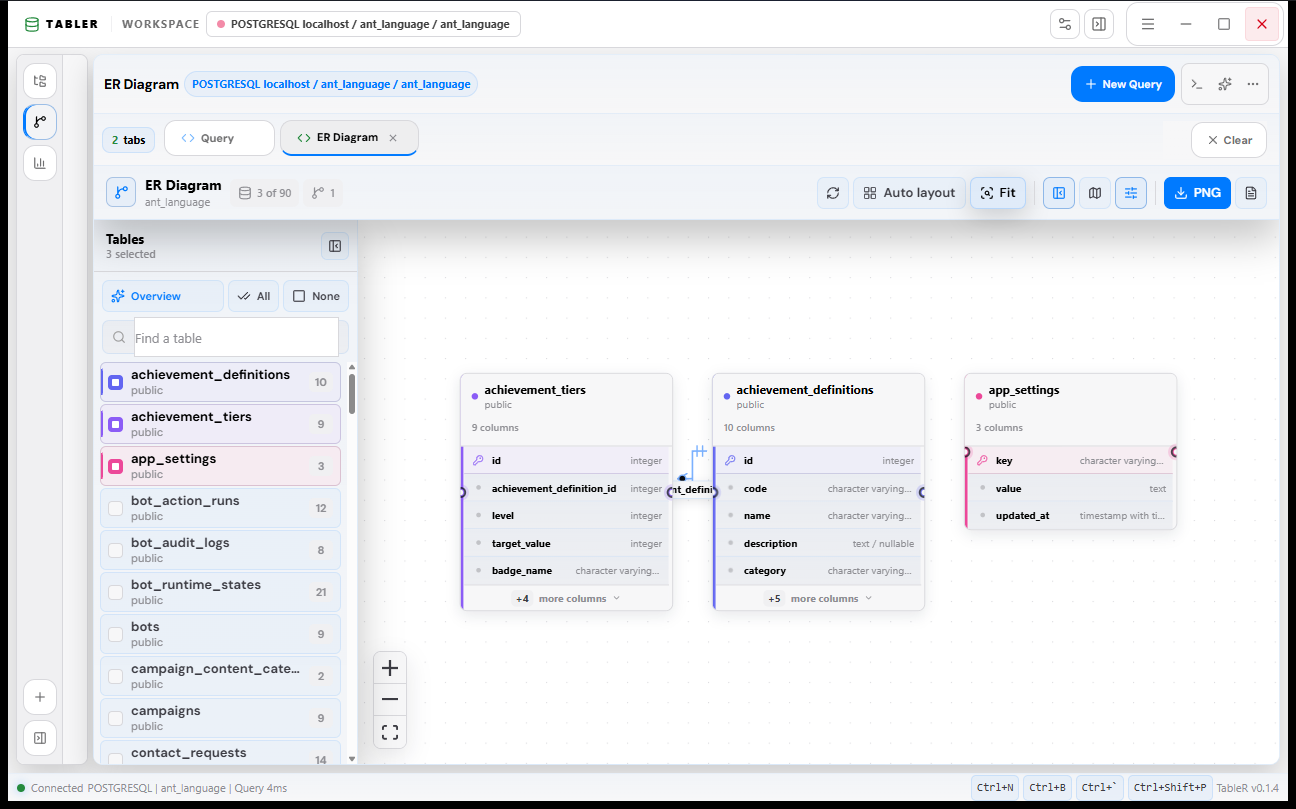
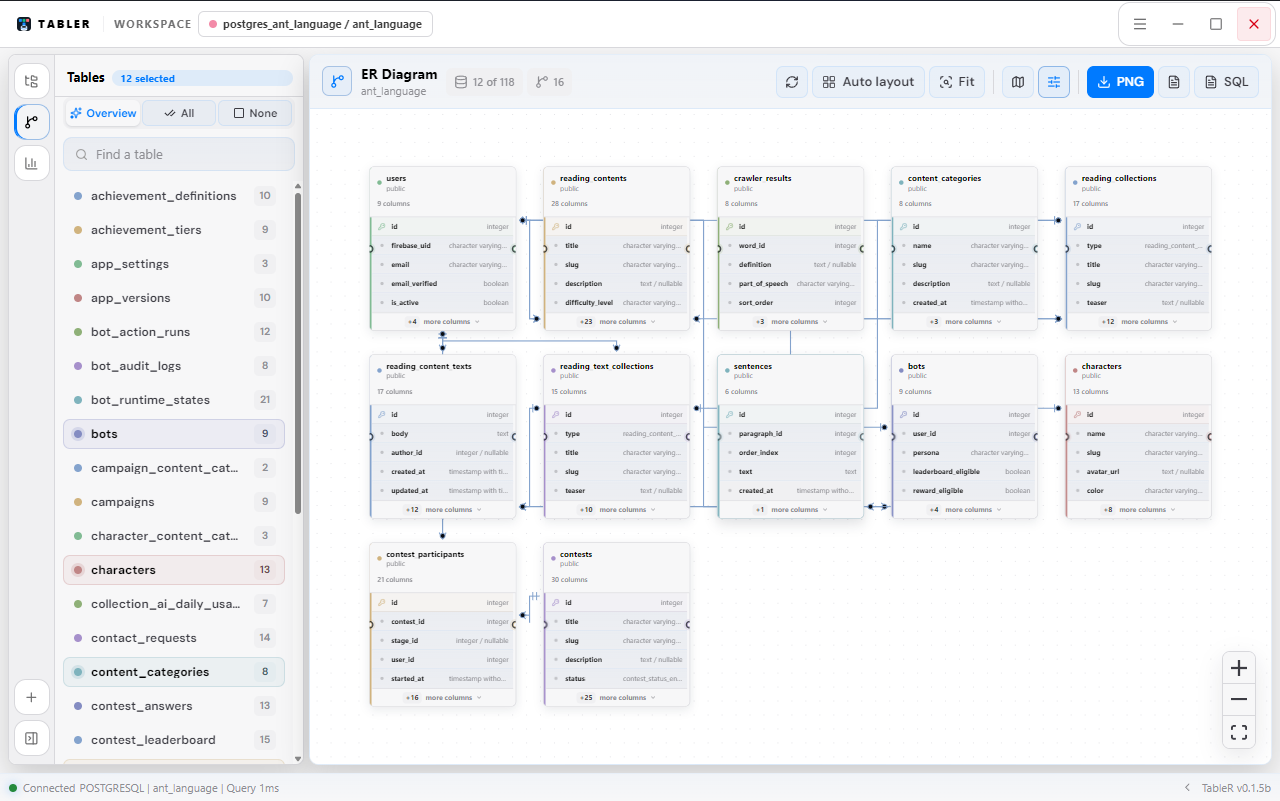
style(plugins): compact redesign of the plugin manager modal
- Widen the modal to 860px, lay the two metric cards side by side instead of a 3-col grid with an empty slot

- Adapter and roadmap sections use a denser auto-fill card grid (min 178px) with hover state and smaller paddings

- Status pills can no longer wrap (Amazon Redshift badge overflow) and the ready pill gets a matching green tint instead of blue background with green text

- Registry list keeps its comfortable single-column layout with install buttons

Changed region(s): [[0.0, 0.0, 1.0, 1.0], [0.8438, 0.437, 0.875, 0.4994], [0.8438, 0.0, 0.875, 0.0312]]

diff --git a/src/styles/app-components.css b/src/styles/app-components.css
@@ -34523,3 +34523,86 @@ body.is-ai-panel-resizing .ai-workspace-resize-handle-line {
 .app-update-primary:hover {
   filter: brightness(1.08);
 }
+
+/* ── Plugin manager: compact redesign ──────────────────────────────────── */
+
+.app-plugin-manager-modal {
+  width: min(860px, calc(100vw - 32px));
+}
+
+/* Two metrics side by side instead of a 3-col grid with an empty slot. */
+.app-plugin-manager-modal .app-help-modal-grid {
+  grid-template-columns: repeat(2, minmax(0, 1fr));
+  gap: 8px;
+}
+
+.app-plugin-manager-modal .app-help-modal-metric {
+  flex-direction: row;
+  align-items: baseline;
+  justify-content: space-between;
+  gap: 10px;
+  padding: 10px 14px;
+  border-radius: 12px;
+}
+
+/* Registry rows keep a comfortable single-column list; adapter/roadmap
+   sections use the denser auto-fill grid below. */
+.app-plugin-manager-grid {
+  display: grid;
+  grid-template-columns: repeat(auto-fill, minmax(178px, 1fr));
+  gap: 8px;
+}
+
+.app-plugin-manager-grid .app-plugin-manager-row {
+  min-width: 0;
+  gap: 8px;
+  padding: 9px 11px;
+  border-radius: 10px;
+  background: var(--mm-surface-1);
+  transition:
+    border-color 0.15s ease,
+    background 0.15s ease;
+}
+
+.app-plugin-manager-grid .app-plugin-manager-row:hover {
+  border-color: color-mix(in srgb, var(--accent) 32%, var(--mm-border));
+  background: var(--mm-surface-2);
+}
+
+.app-plugin-manager-row-title {
+  min-width: 0;
+  overflow: hidden;
+  text-overflow: ellipsis;
+  white-space: nowrap;
+  font-size: var(--mm-fs-caption);
+}
+
+/* Status pills never wrap — the Amazon Redshift overflow bug. */
+.app-plugin-manager-row-state {
+  flex: 0 0 auto;
+  min-height: 20px;
+  padding: 0 8px;
+  border: 1px solid transparent;
+  border-radius: 999px;
+  font-size: 10px;
+  letter-spacing: 0.04em;
+  white-space: nowrap;
+}
+
+.app-plugin-manager-row-state.ready {
+  color: var(--fintech-green);
+  border-color: color-mix(in srgb, var(--fintech-green) 26%, transparent);
+  background: color-mix(in srgb, var(--fintech-green) 10%, transparent);
+}
+
+.app-plugin-manager-row-state.roadmap {
+  color: var(--text-secondary);
+  border-color: var(--mm-border);
+  background: var(--mm-surface-2);
+}
+
+/* Section labels lose the loud blue caps; quieter, aligned with the badges. */
+.app-plugin-manager-section .app-help-modal-section-label {
+  color: var(--text-secondary);
+  letter-spacing: 0.1em;
+}

diff --git a/website/src/app/page.tsx b/website/src/app/page.tsx
@@ -38,22 +38,22 @@ const workflowMedia = [
     icon: KeyRound,
     image: "/screenshots/table-r-connection-launcher.png",
     alt: "TableR connection launcher showing saved PostgreSQL connections",
-    width: 1176,
-    height: 769,
+    width: 1280,
+    height: 801,
   },
   {
     icon: Terminal,
     image: "/screenshots/table-r-query-workspace.png",
     alt: "TableR query workspace with SQL editor and result table",
-    width: 1296,
-    height: 809,
+    width: 1280,
+    height: 801,
   },
   {
     icon: Sparkles,
     image: "/screenshots/table-r-ai-workspace.png",
     alt: "TableR AI workspace beside the SQL editor",
-    width: 1296,
-    height: 809,
+    width: 1280,
+    height: 801,
   },
 ];
 
@@ -162,8 +162,8 @@ export default async function Home() {
             <Image
               className="product-image"
               src="/screenshots/table-r-query-workspace.png"
-              width={1296}
-              height={809}
+              width={1280}
+              height={801}
               alt="TableR desktop app showing a PostgreSQL query and its result set"
               priority
               sizes="(max-width: 720px) 94vw, 1180px"
@@ -305,8 +305,8 @@ export default async function Home() {
             <Image
               className="product-image"
               src="/screenshots/table-r-er-diagram.png"
-              width={1296}
-              height={809}
+              width={1280}
+              height={801}
               alt="TableR ER diagram workspace displaying database tables and relationships"
               sizes="(max-width: 720px) 94vw, 1180px"
             />

diff --git a/src/components/AppPluginManagerModal.tsx b/src/components/AppPluginManagerModal.tsx
@@ -537,7 +537,7 @@ export function AppPluginManagerModal({ onClose }: AppPluginManagerModalProps) {
               {readyAdapters.length} {copy.ready}
             </span>
           </div>
-          <div className="app-plugin-manager-list">
+          <div className="app-plugin-manager-list app-plugin-manager-grid">
             {readyAdapters.map((db) => (
               <div key={db.key} className="app-plugin-manager-row">
                 <span className="app-plugin-manager-row-title">{db.label}</span>
@@ -555,7 +555,7 @@ export function AppPluginManagerModal({ onClose }: AppPluginManagerModalProps) {
               {roadmapAdapters.length} {copy.roadmap}
             </span>
           </div>
-          <div className="app-plugin-manager-list compact">
+          <div className="app-plugin-manager-list compact app-plugin-manager-grid">
             {roadmapAdapters.length === 0 ? (
               <div className="app-plugin-manager-row">
                 <span className="app-plugin-manager-row-title">{copy.ready}</span>

diff --git a/website/src/app/layout.tsx b/website/src/app/layout.tsx
@@ -48,8 +48,8 @@ export const metadata: Metadata = {
     images: [
       {
         url: "/screenshots/table-r-query-workspace.png",
-        width: 1296,
-        height: 809,
+        width: 1280,
+        height: 801,
         alt: "TableR query workspace",
       },
     ],
